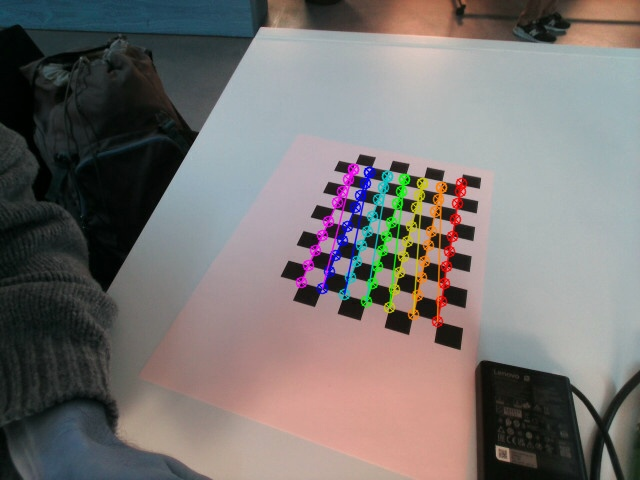
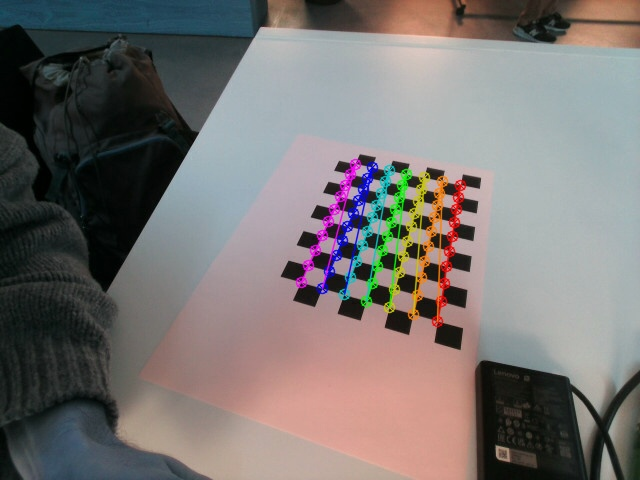
fixed calibration problems related to refinement

Changed region(s): [[0.5, 0.3125, 0.75, 0.5625]]

diff --git a/include/feature_tracker.hpp b/include/feature_tracker.hpp
@@ -1,7 +1,6 @@
 #pragma once
 
 #include <cstdio>
-#include <iostream>
 #include <opencv2/core.hpp>
 #include <opencv2/core/cvstd_wrapper.hpp>
 #include <opencv2/core/mat.hpp>
@@ -10,9 +9,7 @@
 #include <opencv2/features.hpp>
 #include <opencv2/geometry/3d.hpp>
 #include <opencv2/imgproc.hpp>
-#include <ostream>
 #include <tuple>
-#include <utility>
 #include <vector>
 
 // how many matches we take and evaluate, needs to be 2 for D.Lowie testing
@@ -59,7 +56,7 @@ private:
     matcher->knnMatch(target_descriptors, input_descriptors, matches, K);
     // find good matches via D.Lowie
     for (auto match : matches) {
-      if (match.size() != 2) {
+      if (match.size() != K) {
         fprintf(stderr, "Match has incorrect size: %lu (should be 2)\n",
                 match.size());
         continue;

diff --git a/include/computer_vision.hpp b/include/computer_vision.hpp
@@ -16,7 +16,7 @@ bool load_directory_images(const std::string &path,
 static bool find_refined_chessboard_corners(
     const cv::Mat &image, const cv::Size &pattern_size,
     std::vector<cv::Point2f> &corners,
-    const cv::Size &refinement_win_size = cv::Size(11, 11),
+    const cv::Size &refinement_win_size = cv::Size(5, 5),
     const cv::Size &refinement_zero_zone = cv::Size(-1, -1),
     const cv::TermCriteria &refinement_termination_criteria =
         cv::TermCriteria(30, 0.001));

diff --git a/include/camera.hpp b/include/camera.hpp
@@ -3,7 +3,6 @@
 
 #define GLM_ENABLE_EXPERIMENTAL
 #include "computer_vision.hpp"
-#include "utils.hpp"
 #include <glm/detail/qualifier.hpp>
 #include <glm/ext/matrix_clip_space.hpp>
 #include <glm/ext/matrix_float4x4.hpp>
@@ -15,7 +14,6 @@
 #include <glm/gtc/type_ptr.hpp>
 #include <glm/gtx/string_cast.hpp>
 #include <glm/matrix.hpp>
-#include <iostream>
 #include <opencv2/core/mat.hpp>
 #include <opencv2/core/matx.hpp>
 #include <vector>

diff --git a/src/computer_vision.cpp b/src/computer_vision.cpp
@@ -105,7 +105,6 @@ bool calibrate_camera_from_chessboard_images(
       cv::imwrite(debug_path + "chess_" + std::to_string(img_points.size()) +
                       ".jpg",
                   debug_image);
-      fprintf(stdout, "Pattern found and debug image writen!\n");
     }
     used_images.push_back(image.clone());
     img_points.push_back(corners);

diff --git a/src/calibration.cpp b/src/calibration.cpp
@@ -84,7 +84,7 @@ int main() {
   std::shared_ptr<Model> cube = std::make_shared<Model>();
   cube->add_mesh(cube_mesh);
   cube->scale(glm::vec3(1, 1, 0.1));
-  cube->move(-glm::vec3(0.5, 0.5, 0.05));
+  cube->move(glm::vec3(0.5, 0.5, -0.05));
   // add cube to scene
   renderer.add_model_to_scene(cube);
 
